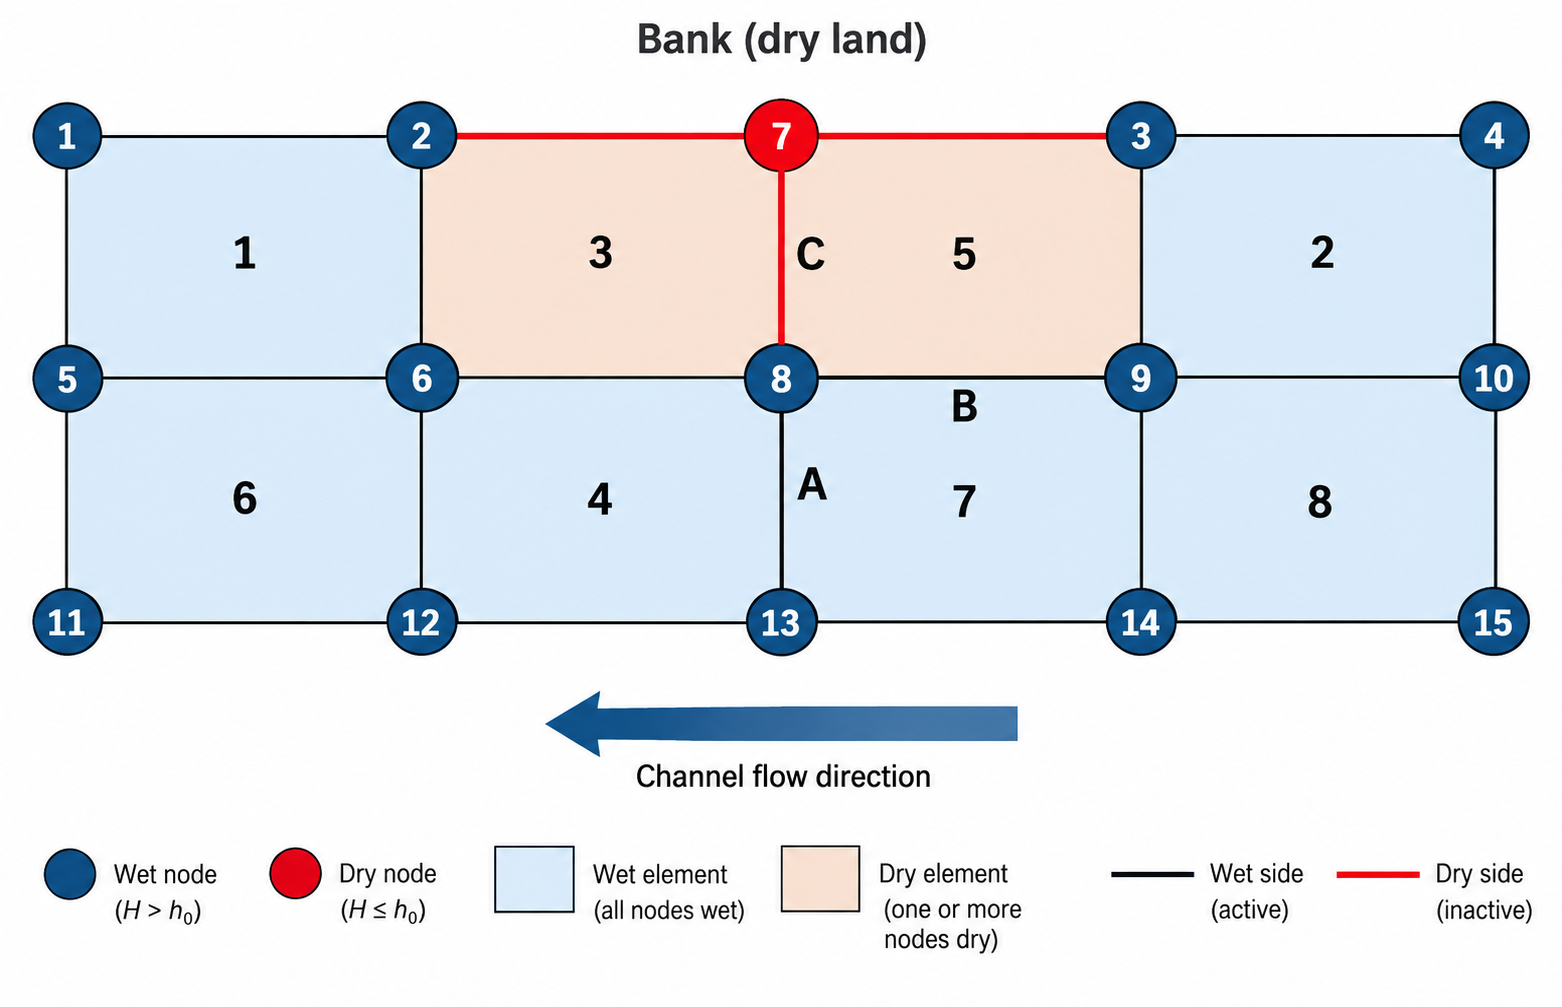
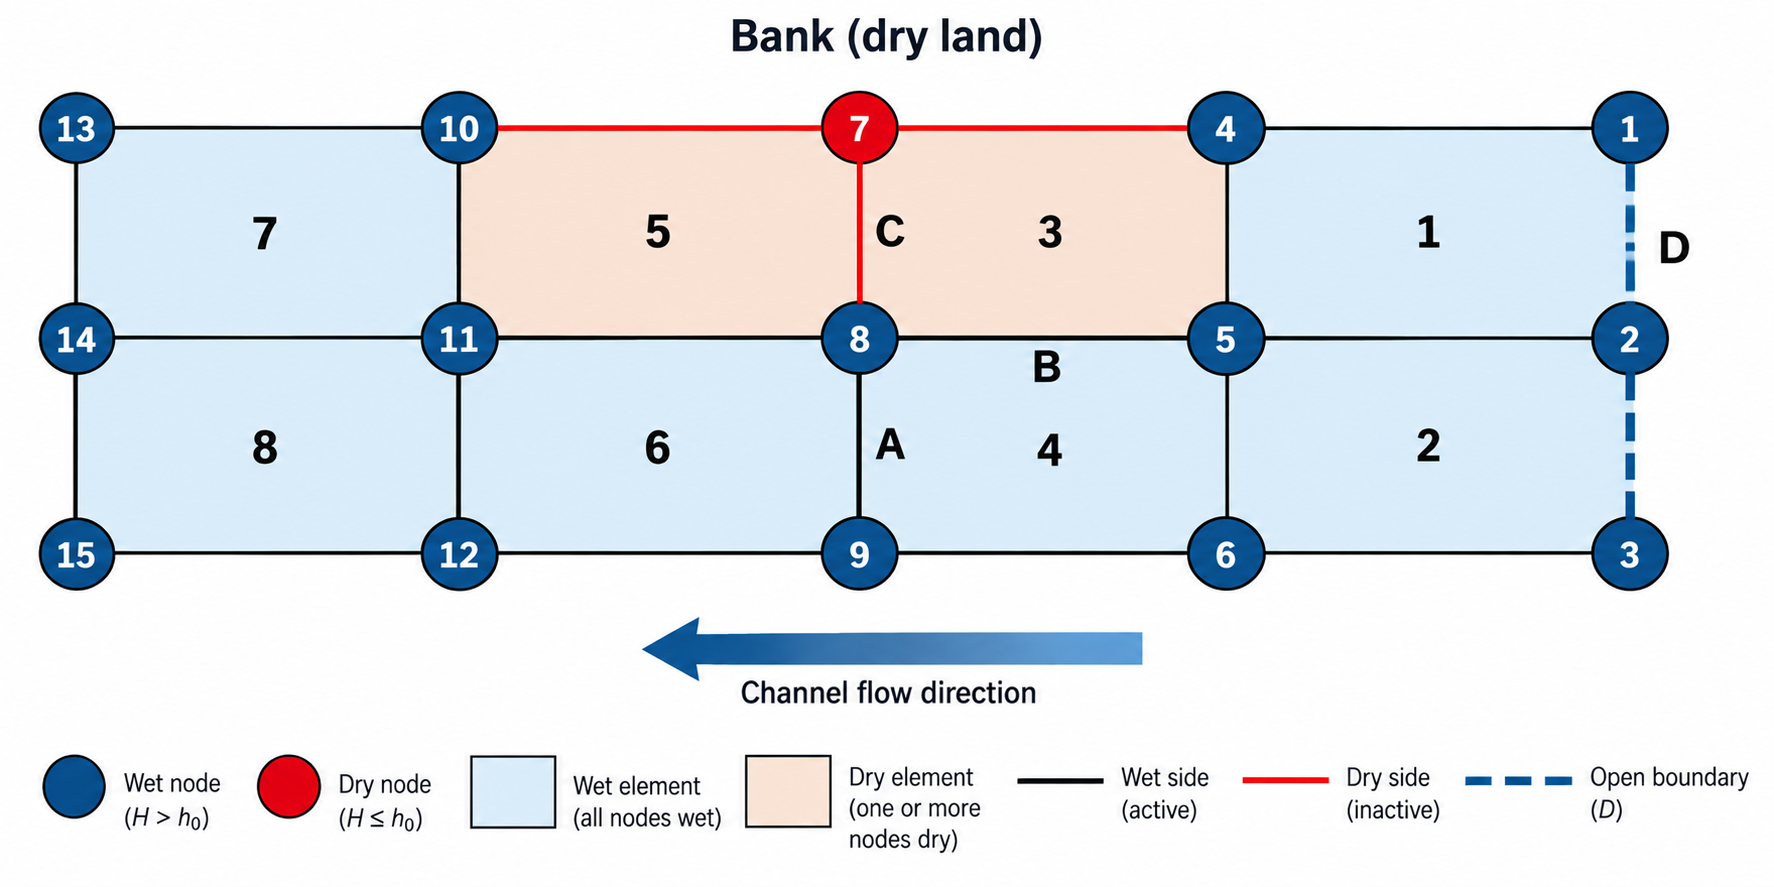
Revised numbering of nodes in example.

diff --git a/docsrc/topics/wetdry.rst b/docsrc/topics/wetdry.rst
@@ -32,27 +32,35 @@ Wet/dry side states
 -------------------
 
 .. figure:: ../img/wet_dry_channel_example.png
-   :alt: Numbered schematic of a wet/dry bank transition
+   :alt: Numbered schematic of a wet/dry bank transition and open boundary
 
-   Numbered schematic of a wet/dry bank transition
+   Numbered schematic of a wet/dry bank transition and open boundary
 
-The schematic represents a channel with flow in the direction of the
-arrow. The northern edge is a bank. At **node 7**, the total water depth
-has fallen to or below the minimum depth threshold :math:`h_0`. An
-element is wet only when the total depth at every one of its nodes is
-greater than :math:`h_0`, so **elements 3 and 5**, which contain node 7,
-are dry in the state shown. SCHISM then derives the node and side states
-from the surrounding element states, as described in
-:ref:`wetdry-state-classification`. This produces three useful side
-cases.
+The schematic represents a channel flowing from right to left, in the
+direction of the arrow. Node and element numbers increase downstream.
+Nodes are numbered down each cross-section before continuing to the next
+cross-section, and elements are numbered from the bank toward the
+channel bed before continuing downstream.
+
+The northern edge is a bank. At **node 7**, the total water depth has
+fallen to or below the minimum depth threshold :math:`h_0`. An element
+is wet only when the total depth at every one of its nodes is greater
+than :math:`h_0`, so **elements 3 and 5**, which contain node 7, are dry
+in the state shown. SCHISM then derives the node and side states from the
+surrounding element states, as described in
+:ref:`wetdry-state-classification`. The figure shows three internal-side
+cases and one external-boundary case.
 
 The labels are interpreted as follows:
 
--  **A**: an ordinary interior side between wet elements **4 and 6**
--  **B**: a wet side between dry element **3** and wet element **4**
--  **C**: a dry side between dry elements **3 and 5**
--  **D**: a hypothetical true model boundary, such as an inflow
-   boundary, where an actual boundary condition could be imposed
+-  **A**: the side from nodes **8 to 9**, between wet elements **4 and
+   6**
+-  **B**: the side from nodes **5 to 8**, between dry element **3** and
+   wet element **4**
+-  **C**: the side from nodes **7 to 8**, between dry elements **3 and
+   5**
+-  **D**: the open boundary along nodes **1**, **2**, and **3**, adjoining
+   wet elements **1 and 2**
 
 The three internal-side states are therefore
 
@@ -423,8 +431,8 @@ This is very different from **B**.
 Case D: a true open boundary
 ----------------------------
 
-A true model boundary is conceptually different from either **B** or
-**C**.
+Case **D**, shown at the right edge of the schematic, is a true model
+boundary. It is fundamentally different from either **B** or **C**.
 
 For a prescribed-flow open boundary, SCHISM computes the wetted boundary
 cross-sectional area using wet boundary sides, and the prescribed
@@ -840,10 +848,11 @@ important.
 
 --------------
 
-18. Compact summary for the schematic
--------------------------------------
+Compact summary
+---------------
 
-For the supplied figure, the most concise interpretation is:
+For the four cases shown in the figure, the most concise interpretation
+is:
 
 .. math::
 
@@ -866,7 +875,7 @@ For the supplied figure, the most concise interpretation is:
    C:\ \text{hydro no,\ tracer no,\ flux.out no}
    }
 
-and, separately,
+The external case **D** is a true boundary-condition location:
 
 .. math::
 
